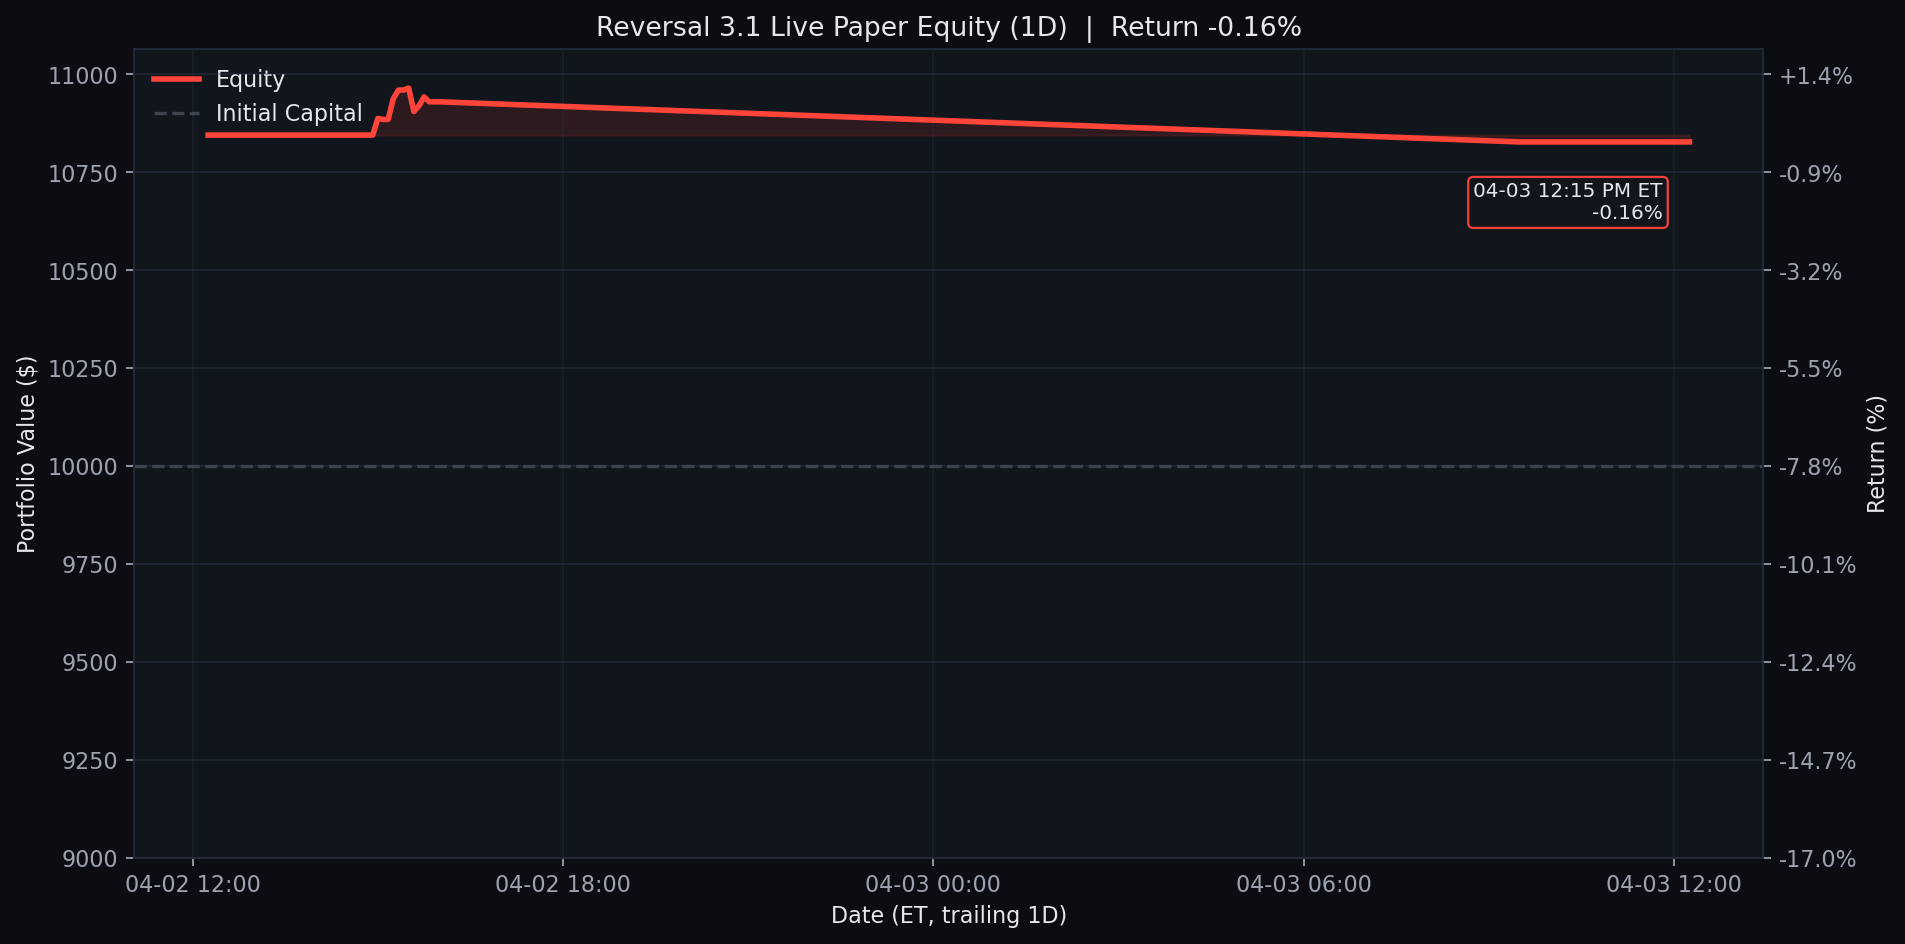
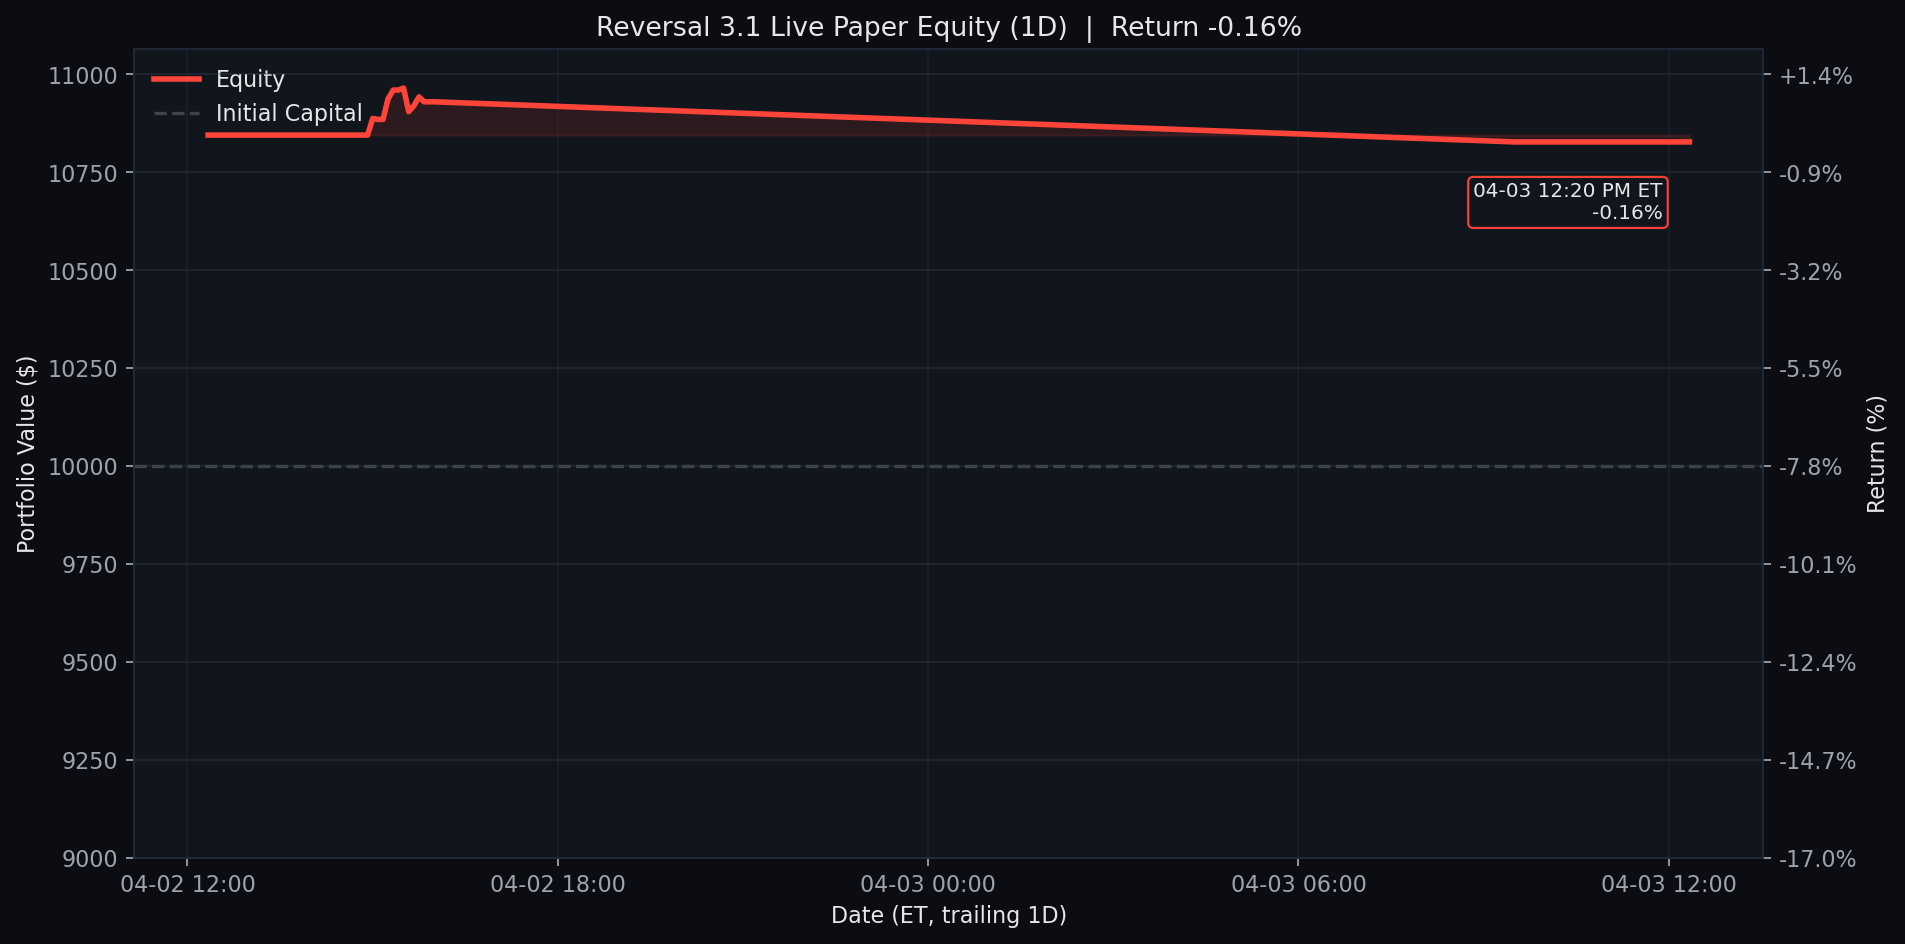
Update Reversal 3.1 live paper test 2026-04-03 12:20 ET

diff --git a/README.md b/README.md
@@ -3,10 +3,10 @@
 <!-- reversal-3.1-live:start -->
 ## Reversal 3.1 Live Paper Test
 
-- Last updated (ET): `2026-04-03 12:15:05 EDT`
+- Last updated (ET): `2026-04-03 12:20:05 EDT`
 - Equity: `$10,827.50` | Realized: `$845.00` | Unrealized: `$-17.50` | Open positions: `1`
 - Today closed trades: `0`
-- Current slot: `manual_refresh`
+- Current slot: `manage_1230`
 - Universe: `qqq_plus_leverage_etfs`
 - Chart windows: `1D / 1W / 1M` (default open panel: `1W`)
 

diff --git a/results/reversal_3_1_live/README.md b/results/reversal_3_1_live/README.md
@@ -1,7 +1,7 @@
 # Reversal 3.1 Live Paper Test
 
-Last updated (ET): `2026-04-03 12:15:05 EDT`
-Last processed slot: `manual_refresh`
+Last updated (ET): `2026-04-03 12:20:05 EDT`
+Last processed slot: `manage_1230`
 
 ## Active Configuration
 
